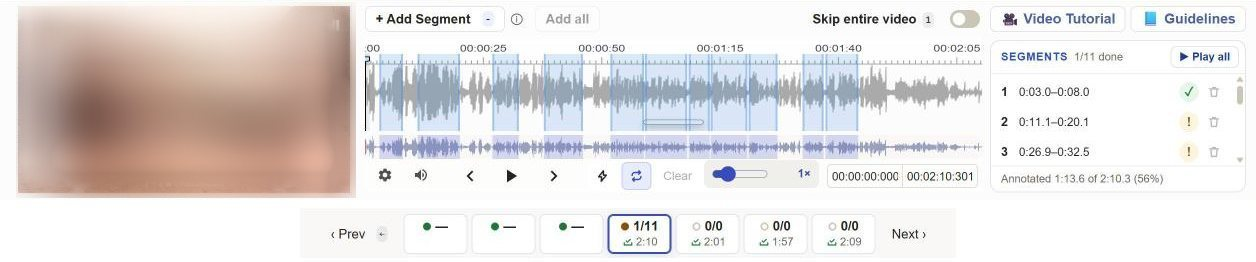
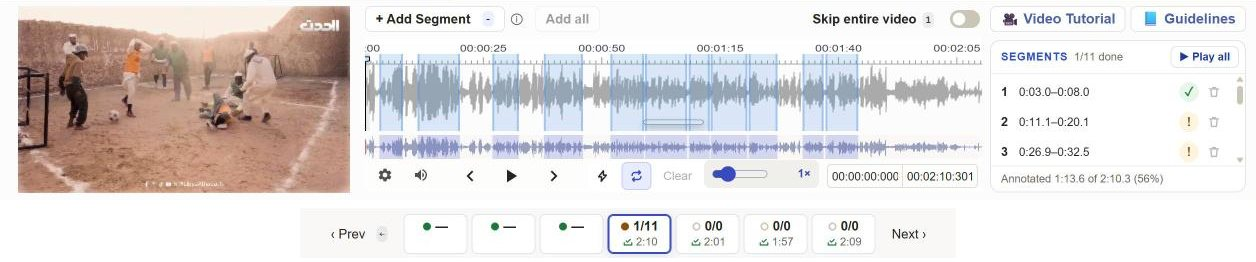
Move tests into tests/, unblur the screenshot

Changed region(s): [[0.0, 0.0305, 0.3105, 0.7634], [0.1242, 0.5496, 0.1553, 0.5802]]

diff --git a/README.md b/README.md
@@ -89,7 +89,7 @@ For development, load the repository folder itself with **Load unpacked**. In a 
 | `popup.*` | Settings popup |
 | `INSTALL.html`, `install/`, `update.cmd` | Annotator guide and one-click updater, shipped in the zip |
 | `scripts/` | Test runner, packager, icon generator |
-| `test_*.mjs`, `test-support/` | Tests (plain Node + jsdom, with a fake Label Studio) |
+| `tests/` | Tests (plain Node + jsdom, with a fake Label Studio in `tests/test-support/`) |
 
 ### Releasing a new version
 
